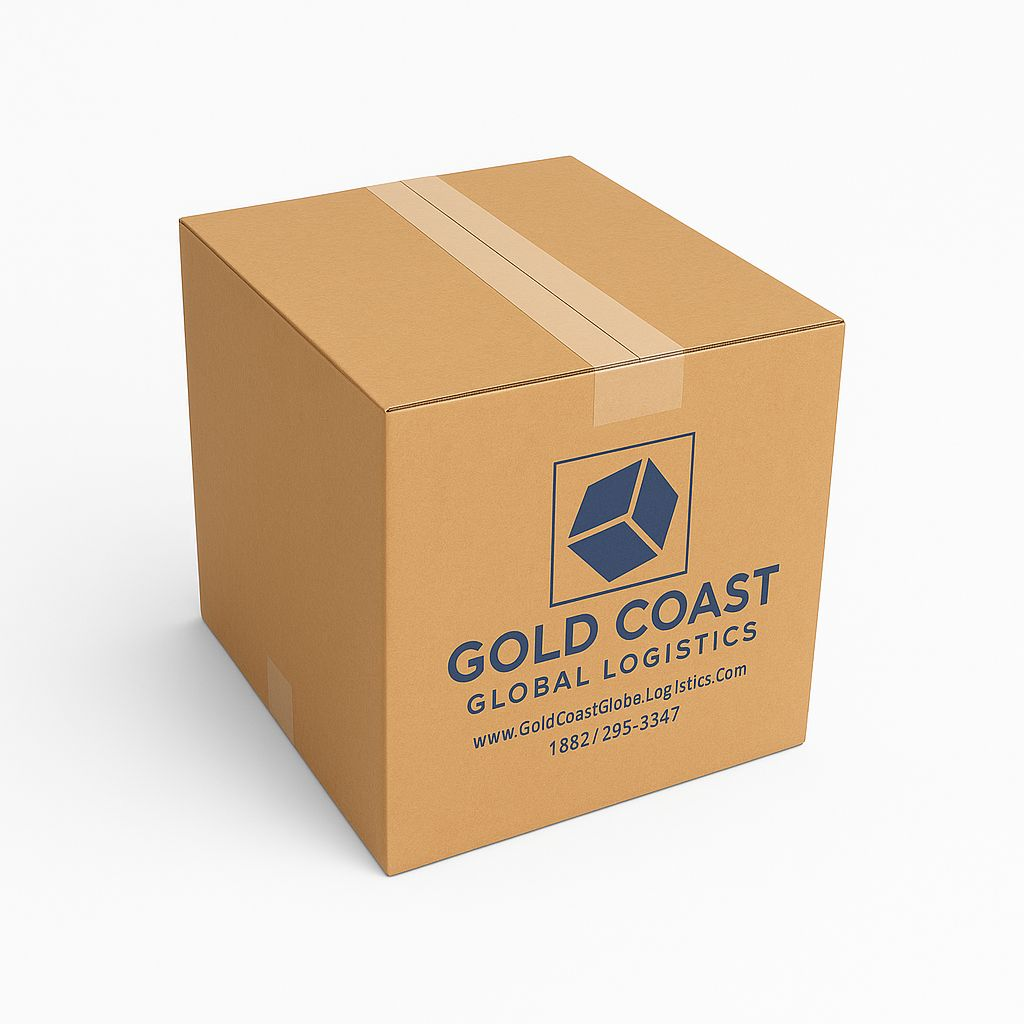
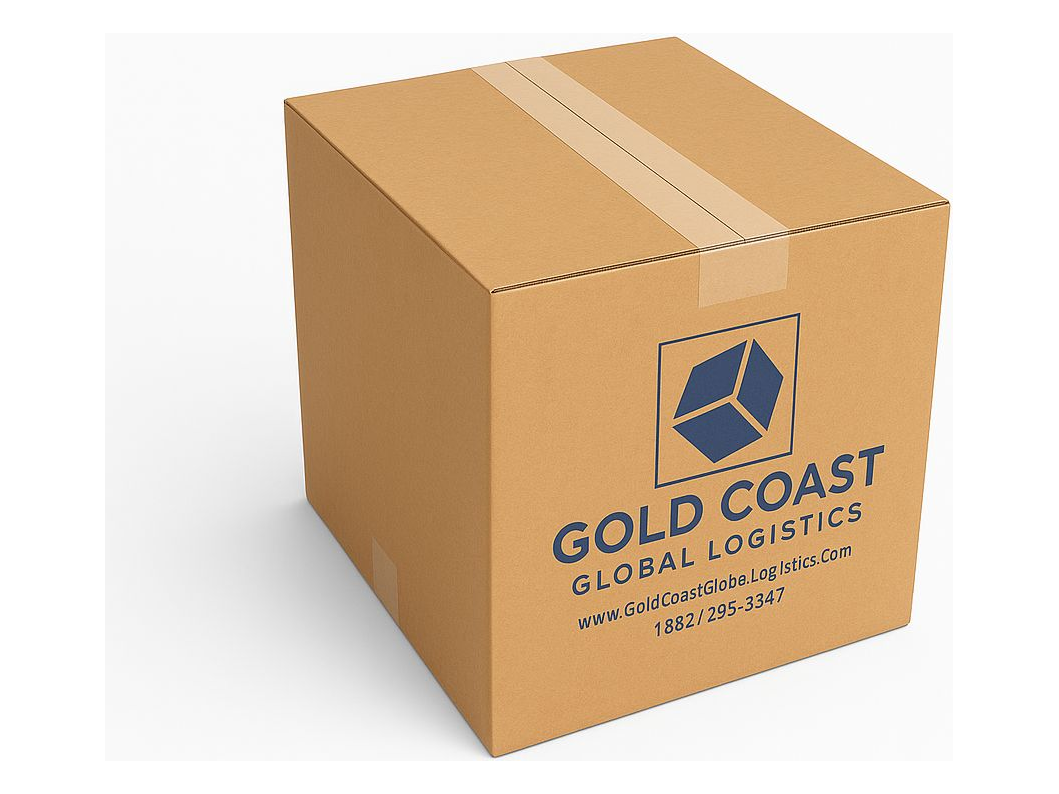
Add 8 catalog items to Frequently Shipped Items, close the TV price gaps
The admin catalog carried 25 items; this page showed 11. Everything below was
already priced and already shipping -- customers just could not see it.

New cards, priced as per the catalog:

  40 Gallon Storage Tote   $110    77 Gallon Storage Tote   $200
  Wardrobe Box             $250    Bale of Clothes           $70
  Cooking Oil (box)          $5    5 Gallon Bucket           $10
  Tire                      $40    Pallet                   $980

The 40-gallon tote was the most recurring item customers were shipping without
a listing -- eight separate invoices -- and the wardrobe box six.

Two dead zones in the TV table are now closed. It priced 32-42 and then jumped
to 50-62, so a customer with a 47" set saw no price at all, and 43-49 is the
single most common size in our invoice history (ten line items, every one
billed $220). The upper band also read 50-62 while the catalog band is 50-64,
leaving 63" and 64" unpriced. Now 32-42 / 43-49 / 50-64 / 65-75 / above 75,
continuous.

Only three cards carry a retailer link -- Sam's Club and two Walmart -- because
those are the only product pages that could be loaded and confirmed. U-Haul and
Home Depot serve bot-blocks, so a wardrobe box or tote link could not be
verified, and shipping unverified links onto the page whose links were just
repaired would be repeating the original mistake. The other five point at
/request-quote instead, which keeps the intent on our own form.
[…]

diff --git a/src/pages/FrequentlyShippedItems.tsx b/src/pages/FrequentlyShippedItems.tsx
@@ -1,4 +1,5 @@
 import React from "react";
+import { Link } from "react-router-dom";
 import NavMenu from "@/components/NavMenu";
 import Footer from "@/components/Footer";
 import { Card, CardContent } from "@/components/ui/card";
@@ -17,12 +18,12 @@ const FrequentlyShippedItems = () => {
         <div className="grid grid-cols-1 md:grid-cols-2 lg:grid-cols-3 gap-8">
           {/* Gold Coast Large Box Item Card */}
           <Card className="overflow-hidden shadow-lg hover:shadow-xl transition-shadow">
-            <div className="bg-white p-0">
+            <div className="bg-white p-4">
               <AspectRatio ratio={4/3} className="bg-white relative">
                 <img 
                   src="/lovable-uploads/988cb0a5-695e-4910-8ad1-1888c7e766c5.png" 
                   alt="Gold Coast Large Box 24.5x24.5x27" 
-                  className="object-contain absolute inset-0 w-full h-full scale-125"
+                  className="object-contain absolute inset-0 w-full h-full p-2"
                 />
               </AspectRatio>
             </div>
@@ -104,7 +105,11 @@ const FrequentlyShippedItems = () => {
                     <TableCell className="py-1 text-right font-bold text-blue-600">$150</TableCell>
                   </TableRow>
                   <TableRow>
-                    <TableCell className="py-1 pl-0">50" to 62" TV</TableCell>
+                    <TableCell className="py-1 pl-0">43" to 49" TV</TableCell>
+                    <TableCell className="py-1 text-right font-bold text-blue-600">$220</TableCell>
+                  </TableRow>
+                  <TableRow>
+                    <TableCell className="py-1 pl-0">50" to 64" TV</TableCell>
                     <TableCell className="py-1 text-right font-bold text-blue-600">$220</TableCell>
                   </TableRow>
                   <TableRow>
@@ -287,12 +292,12 @@ const FrequentlyShippedItems = () => {
 
           {/* Gold Coast Large Box Item Card - 18x18x24 */}
           <Card className="overflow-hidden shadow-lg hover:shadow-xl transition-shadow">
-            <div className="bg-white p-0">
+            <div className="bg-white p-4">
               <AspectRatio ratio={4/3} className="bg-white relative">
                 <img 
                   src="/lovable-uploads/cfa9a1b5-7f08-4828-a5ac-e71e99596f8b.png" 
                   alt="Gold Coast Regular Box 18x18x24" 
-                  className="object-contain absolute inset-0 w-full h-full scale-125"
+                  className="object-contain absolute inset-0 w-full h-full p-2"
                 />
               </AspectRatio>
             </div>
@@ -385,8 +390,256 @@ const FrequentlyShippedItems = () => {
               </div>
             </CardContent>
           </Card>
+          {/* 40 Gallon Tote Item Card */}
+          <Card className="overflow-hidden shadow-lg hover:shadow-xl transition-shadow">
+            <div className="bg-white p-4">
+              <AspectRatio ratio={4/3} className="bg-white relative">
+                <img
+                  src="/lovable-uploads/40-gallon-storage-tote.jpg"
+                  alt="40 Gallon Storage Tote"
+                  className="object-contain absolute inset-0 w-full h-full p-2"
+                />
+              </AspectRatio>
+            </div>
+            <CardContent className="p-6">
+              <h3 className="text-xl font-bold mb-2">40 Gallon Storage Tote</h3>
+              <div className="flex justify-between items-center">
+                <div className="text-gray-600">Shipping Cost:</div>
+                <div className="text-2xl font-bold text-blue-600">$110</div>
+              </div>
+              <p className="text-gray-500 mt-4 text-sm mb-4">
+                Large plastic storage container with secure lid, measuring 24" x 22" x 22". A step up from the 27-gallon tote for bulkier household loads.
+              </p>
+              <div className="mt-4">
+                <Link to="/request-quote">
+                  <Button variant="outline" className="w-full border-amber-500 text-amber-600 hover:bg-amber-500 hover:text-white">
+                    Request a Quote
+                  </Button>
+                </Link>
+              </div>
+            </CardContent>
+          </Card>
+
+          {/* 77 Gallon Tote Item Card */}
+          <Card className="overflow-hidden shadow-lg hover:shadow-xl transition-shadow">
+            <div className="bg-white p-4">
+              <AspectRatio ratio={4/3} className="bg-white relative">
+                <img
+                  src="/lovable-uploads/77-gallon-storage-tote.jpg"
+                  alt="77 Gallon Storage Tote"
+                  className="object-contain absolute inset-0 w-full h-full p-2"
+                />
+              </AspectRatio>
+            </div>
+            <CardContent className="p-6">
+              <h3 className="text-xl font-bold mb-2">77 Gallon Storage Tote</h3>
+              <div className="flex justify-between items-center">
+                <div className="text-gray-600">Shipping Cost:</div>
+                <div className="text-2xl font-bold text-blue-600">$200</div>
+              </div>
+              <p className="text-gray-500 mt-4 text-sm mb-4">
+                Extra-large plastic storage tote, 28" x 24" x 28". Our biggest tote, ideal for consolidating bulky household goods into a single container.
+              </p>
+              <div className="mt-4">
+                <Link to="/request-quote">
+                  <Button variant="outline" className="w-full border-amber-500 text-amber-600 hover:bg-amber-500 hover:text-white">
+                    Request a Quote
+                  </Button>
+                </Link>
+              </div>
+            </CardContent>
+          </Card>
+
+          {/* Wardrobe Box Item Card */}
+          <Card className="overflow-hidden shadow-lg hover:shadow-xl transition-shadow">
+            <div className="bg-white p-4">
+              <AspectRatio ratio={4/3} className="bg-white relative">
+                <img
+                  src="/lovable-uploads/wardrobe-box.jpg"
+                  alt="U-Haul Wardrobe Box with hanging rail"
+                  className="object-contain absolute inset-0 w-full h-full p-2"
+                />
+              </AspectRatio>
+            </div>
+            <CardContent className="p-6">
+              <h3 className="text-xl font-bold mb-2">Wardrobe Box</h3>
+              <div className="flex justify-between items-center">
+                <div className="text-gray-600">Shipping Cost:</div>
+                <div className="text-2xl font-bold text-blue-600">$250</div>
+              </div>
+              <p className="text-gray-500 mt-4 text-sm mb-4">
+                Tall wardrobe box with a metal hanging rail, 18" x 21" x 46" with 10 cu ft capacity. Clothes travel on their hangers and arrive ready to hang.
+              </p>
+              <div className="mt-4">
+                <Link to="/request-quote">
+                  <Button variant="outline" className="w-full border-amber-500 text-amber-600 hover:bg-amber-500 hover:text-white">
+                    Request a Quote
+                  </Button>
+                </Link>
+              </div>
+            </CardContent>
+          </Card>
+
+          {/* Bale of Clothes Item Card */}
+          <Card className="overflow-hidden shadow-lg hover:shadow-xl transition-shadow">
+            <div className="bg-white p-4">
+              <AspectRatio ratio={4/3} className="bg-white relative">
+                <img
+                  src="/lovable-uploads/bale-of-clothes.jpg"
+                  alt="Bale of Clothes"
+                  className="object-contain absolute inset-0 w-full h-full p-2"
+                />
+              </AspectRatio>
+            </div>
+            <CardContent className="p-6">
+              <h3 className="text-xl font-bold mb-2">Bale of Clothes</h3>
+              <div className="flex justify-between items-center">
+                <div className="text-gray-600">Shipping Cost:</div>
+                <div className="text-2xl font-bold text-blue-600">$70</div>
+              </div>
+              <p className="text-gray-500 mt-4 text-sm mb-4">
+                Compressed bale of clothing — the most economical way to send larger quantities of garments to family and friends.
+              </p>
+              <div className="mt-4">
+                <Link to="/request-quote">
+                  <Button variant="outline" className="w-full border-amber-500 text-amber-600 hover:bg-amber-500 hover:text-white">
+                    Request a Quote
+                  </Button>
+                </Link>
+              </div>
+            </CardContent>
+          </Card>
+
+          {/* Cooking Oil Item Card */}
+          <Card className="overflow-hidden shadow-lg hover:shadow-xl transition-shadow">
+            <div className="bg-white p-4">
+              <AspectRatio ratio={4/3} className="bg-white relative">
+                <img
+                  src="/lovable-uploads/cooking-oil-box.jpg"
+                  alt="Boxed cooking oil"
+                  className="object-contain absolute inset-0 w-full h-full p-2"
+                />
+              </AspectRatio>
+            </div>
+            <CardContent className="p-6">
+              <h3 className="text-xl font-bold mb-2">Cooking Oil (box)</h3>
+              <div className="flex justify-between items-center">
+                <div className="text-gray-600">Shipping Cost:</div>
+                <div className="text-2xl font-bold text-blue-600">$5</div>
+              </div>
+              <p className="text-gray-500 mt-4 text-sm mb-4">
+                Boxed cooking oil, 18" x 12" x 10", priced per box. One of the most common additions to a household shipment.
+              </p>
+              <div className="mt-4">
+                <a href="https://www.samsclub.com/ip/member-s-mark-pure-soybean-oil-35-lbs/13765556327"
+                   target="_blank"
+                   rel="noopener noreferrer">
+                  <Button variant="outline" className="w-full border-yellow-500 text-yellow-600 hover:bg-yellow-500 hover:text-white">
+                    <ExternalLink className="mr-2 h-4 w-4" />
+                    Buy at Sam's Club
+                  </Button>
+                </a>
+              </div>
+            </CardContent>
+          </Card>
+
+          {/* 5 Gallon Bucket Item Card */}
+          <Card className="overflow-hidden shadow-lg hover:shadow-xl transition-shadow">
+            <div className="bg-white p-4">
+              <AspectRatio ratio={4/3} className="bg-white relative">
+                <img
+                  src="/lovable-uploads/5-gallon-bucket.jpg"
+                  alt="5 Gallon Bucket with lid"
+                  className="object-contain absolute inset-0 w-full h-full p-2"
+                />
+              </AspectRatio>
+            </div>
+            <CardContent className="p-6">
+              <h3 className="text-xl font-bold mb-2">5 Gallon Bucket</h3>
+              <div className="flex justify-between items-center">
+                <div className="text-gray-600">Shipping Cost:</div>
+                <div className="text-2xl font-bold text-blue-600">$10</div>
+              </div>
+              <p className="text-gray-500 mt-4 text-sm mb-4">
+                Five-gallon bucket with a sealed lid, 16" x 16" x 18". Ideal for detergents, oils, and dry goods that need to stay sealed in transit.
+              </p>
+              <div className="mt-4">
+                <a href="https://www.walmart.com/ip/ePackageSupply-Bucket-with-Lid-Food-Grade-Buckets-White-5-Gallon/605149847"
+                   target="_blank"
+                   rel="noopener noreferrer">
+                  <Button variant="outline" className="w-full border-blue-500 text-blue-500 hover:bg-blue-500 hover:text-white">
+                    <ExternalLink className="mr-2 h-4 w-4" />
+                    Buy at Walmart
+                  </Button>
+                </a>
+              </div>
+            </CardContent>
+          </Card>
+
+          {/* Tire Item Card */}
+          <Card className="overflow-hidden shadow-lg hover:shadow-xl transition-shadow">
+            <div className="bg-white p-4">
+              <AspectRatio ratio={4/3} className="bg-white relative">
+                <img
+                  src="/lovable-uploads/tire.jpg"
+                  alt="Vehicle tire"
+                  className="object-contain absolute inset-0 w-full h-full p-2"
+                />
+              </AspectRatio>
+            </div>
+            <CardContent className="p-6">
+              <h3 className="text-xl font-bold mb-2">Tire</h3>
+              <div className="flex justify-between items-center">
+                <div className="text-gray-600">Shipping Cost:</div>
+                <div className="text-2xl font-bold text-blue-600">$40</div>
+              </div>
+              <p className="text-gray-500 mt-4 text-sm mb-4">
+                Single vehicle tire, priced per tire. Commonly shipped alongside vehicle parts and household consignments.
+              </p>
+              <div className="mt-4">
+                <a href="https://www.walmart.com/ip/Goodyear-Assurance-All-Season-All-Season-205-55R16-91H-Passenger-Tire/43084376"
+                   target="_blank"
+                   rel="noopener noreferrer">
+                  <Button variant="outline" className="w-full border-blue-500 text-blue-500 hover:bg-blue-500 hover:text-white">
+                    <ExternalLink className="mr-2 h-4 w-4" />
+                    Buy at Walmart
+                  </Button>
+                </a>
+              </div>
+            </CardContent>
+          </Card>
+
+          {/* Pallet Item Card */}
+          <Card className="overflow-hidden shadow-lg hover:shadow-xl transition-shadow">
+            <div className="bg-white p-4">
+              <AspectRatio ratio={4/3} className="bg-white relative">
+                <img
+                  src="/lovable-uploads/pallet.jpg"
+                  alt="Shipping pallet"
+                  className="object-contain absolute inset-0 w-full h-full p-2"
+                />
+              </AspectRatio>
+            </div>
+            <CardContent className="p-6">
+              <h3 className="text-xl font-bold mb-2">Pallet</h3>
+              <div className="flex justify-between items-center">
+                <div className="text-gray-600">Shipping Cost:</div>
+                <div className="text-2xl font-bold text-blue-600">$980</div>
+              </div>
+              <p className="text-gray-500 mt-4 text-sm mb-4">
+                Full pallet shipping, 48" x 40" x 48". For commercial loads and bulk consignments too large to send as individual boxes.
+              </p>
+              <div className="mt-4">
+                <Link to="/request-quote">
+                  <Button variant="outline" className="w-full border-amber-500 text-amber-600 hover:bg-amber-500 hover:text-white">
+                    Request a Quote
+                  </Button>
+                </Link>
+              </div>
+            </CardContent>
+          </Card>
         </div>
-        
+
         <div className="mt-16 bg-blue-50 p-6 rounded-lg">
           <h2 className="text-2xl font-semibold mb-4">Why Ship with Gold Coast?</h2>
           <ul className="list-disc pl-6 space-y-2">
